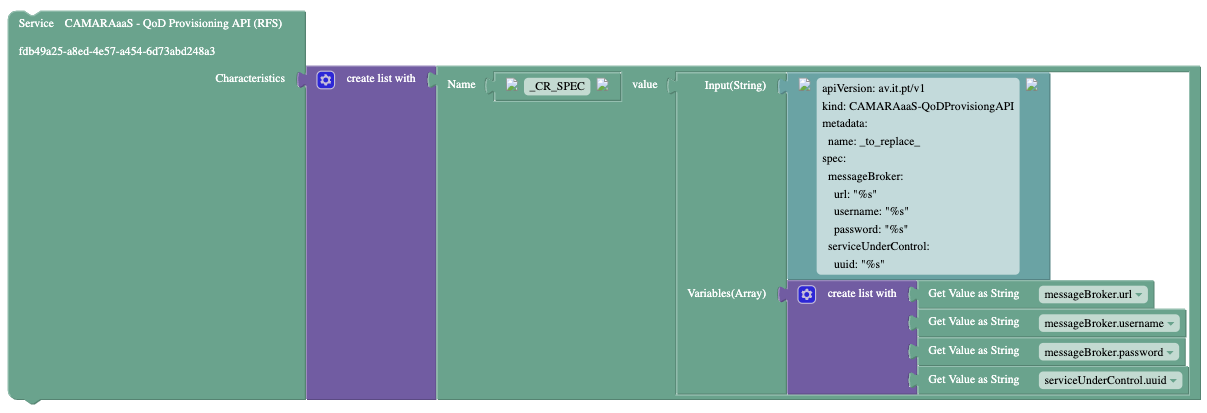
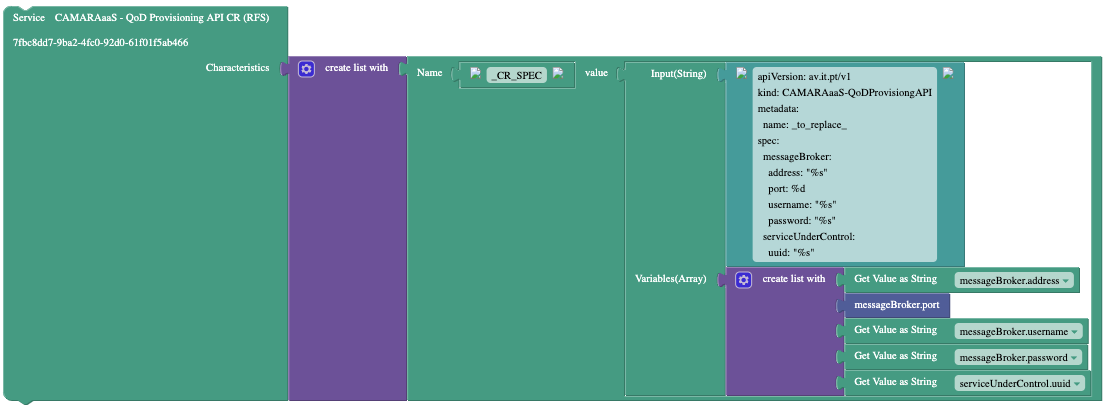
Updated QoDProvisioningAPI Service LCM Rules

diff --git a/QoDProvisioningAPI/OSL/Rules/supervision.java b/QoDProvisioningAPI/OSL/Rules/supervision.java
@@ -7,14 +7,17 @@ metadata:
   name: _to_replace_
 spec:
   messageBroker:
-    url: "%s"
+    address: "%s"
+    port: %d
     username: "%s"
     password: "%s"
   serviceUnderControl:
     uuid: "%s"
 """
-, getCharValAsString("messageBroker.url"), getCharValAsString("messageBroker.username"), getCharValAsString("messageBroker.password"), getCharValAsString("serviceUnderControl.uuid")));
-setServiceRefCharacteristicsValues("CAMARAaaS - QoD Provisioning API (RFS)	", charvals);
+, getCharValAsString("messageBroker.address"), getCharValNumber("messageBroker.port"), getCharValAsString("messageBroker.username"), getCharValAsString("messageBroker.password"), getCharValAsString("serviceUnderControl.uuid")));
+setServiceRefCharacteristicsValues("CAMARAaaS - QoD Provisioning API CR (RFS)", charvals);
 }
-setCharValFromStringType("camaraAPI.status", getServiceRefPropValue("CAMARAaaS - QoD Provisioning API (RFS)	", "serviceCharacteristicValue", "spec.camaraAPI.status"));
-setCharValFromStringType("camaraAPI.url", getServiceRefPropValue("CAMARAaaS - QoD Provisioning API (RFS)	", "serviceCharacteristicValue", "spec.camaraAPI.url"));
+setCharValFromStringType("camaraAPI.status", getServiceRefPropValue("CAMARAaaS - QoD Provisioning API CR (RFS)", "serviceCharacteristicValue", "spec.camaraAPI.status"));
+setCharValFromStringType("camaraAPI.url", getServiceRefPropValue("CAMARAaaS - QoD Provisioning API CR (RFS)", "serviceCharacteristicValue", "spec.camaraAPI.url"));
+setCharValFromStringType("camaraAPI.username", getServiceRefPropValue("CAMARAaaS - QoD Provisioning API CR (RFS)", "serviceCharacteristicValue", "spec.camaraAPI.username"));
+setCharValFromStringType("camaraAPI.password", getServiceRefPropValue("CAMARAaaS - QoD Provisioning API CR (RFS)", "serviceCharacteristicValue", "spec.camaraAPI.password"));

diff --git a/QoDProvisioningAPI/OSL/Rules/pre_provision.java b/QoDProvisioningAPI/OSL/Rules/pre_provision.java
@@ -7,12 +7,13 @@ metadata:
   name: _to_replace_
 spec:
   messageBroker:
-    url: "%s"
+    address: "%s"
+    port: %d
     username: "%s"
     password: "%s"
   serviceUnderControl:
     uuid: "%s"
 """
-, getCharValAsString("messageBroker.url"), getCharValAsString("messageBroker.username"), getCharValAsString("messageBroker.password"), getCharValAsString("serviceUnderControl.uuid")));
-setServiceRefCharacteristicsValues("CAMARAaaS - QoD Provisioning API (RFS)	", charvals);
+, getCharValAsString("messageBroker.address"), getCharValNumber("messageBroker.port"), getCharValAsString("messageBroker.username"), getCharValAsString("messageBroker.password"), getCharValAsString("serviceUnderControl.uuid")));
+setServiceRefCharacteristicsValues("CAMARAaaS - QoD Provisioning API CR (RFS)", charvals);
 }
